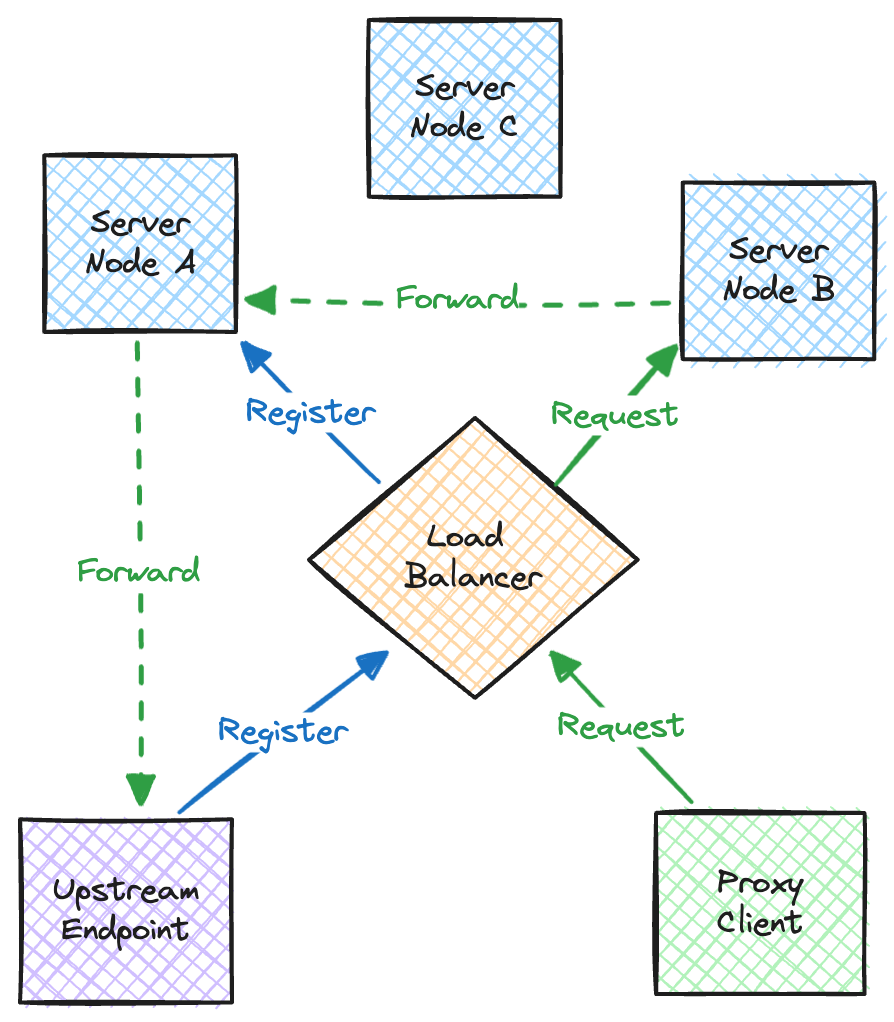
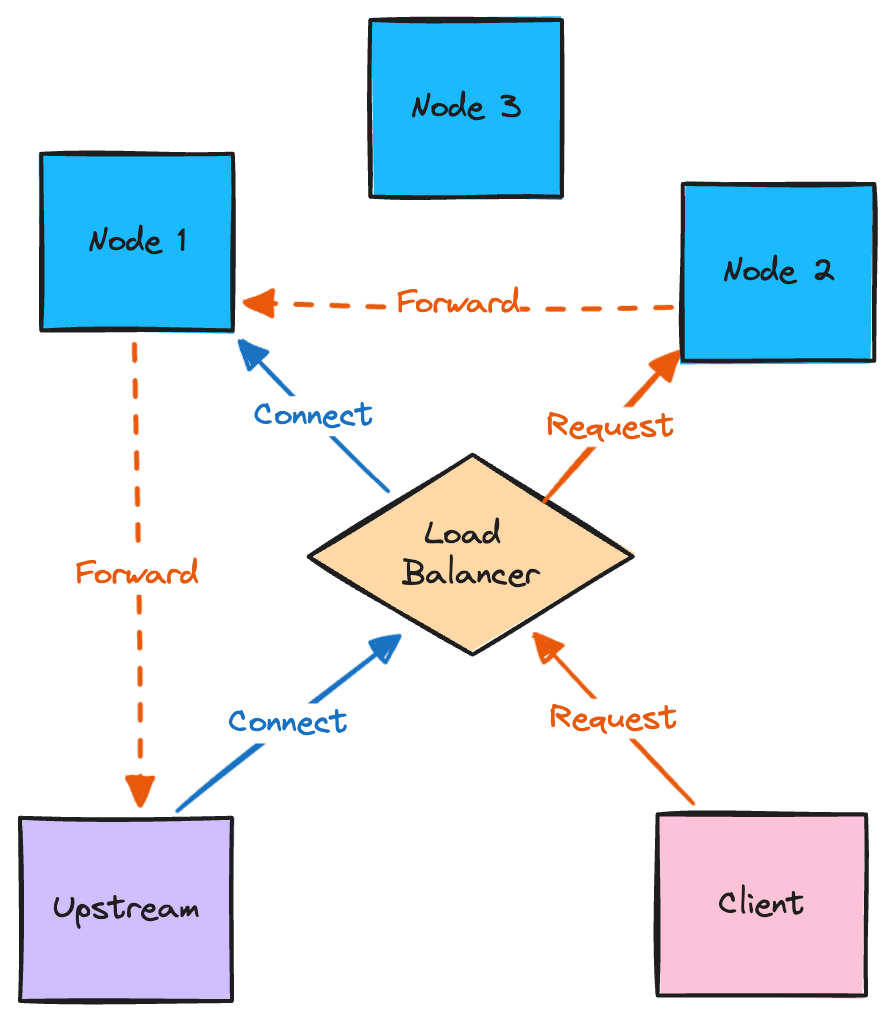
docs: add how piko works

Changed region(s): [[0.0, 0.152, 0.9966, 1.0], [0.3926, 0.0, 0.6342, 0.2127], [0.2718, 0.3343, 0.4228, 0.4559]]

diff --git a/docs/how-piko-works.md b/docs/how-piko-works.md
@@ -1,0 +1,77 @@
+# How Piko Works
+
+This document provides an overview of how Piko works.
+
+The Piko server is a HTTP(S) reverse proxy that forwards requests to upstream
+listeners. Unlike a traditional reverse proxy, Piko never opens a connection
+directly to your upstream. Instead upstreams listeners open outbound-only
+connections to the server and listen on a particular endpoint. The server then
+forwards requests to a listening upstream via its outbound connection to the
+server.
+
+This means upstreams can run anywhere without requiring a public route, as long
+as they can open a connection to the Piko server.
+
+You can create an upstream listener using the Piko agent.
+
+## Upstream
+
+Each upstream listener opens an outbound-only connection to the Piko server and
+specifies what endpoint it is listening on. This connection is used to forward
+requests from the server to the upstream.
+
+To make the server easier to host, the upstream listener connection uses
+WebSockets rather than raw TCP, meaning the server can be deployed behind a
+HTTP load balancer.
+
+Piko multiplexes parallel bi-directional streams on this underlying connection
+using [yamux](https://github.com/hashicorp/yamux). Each stream can be treated
+as a separate TCP connection even though there is actually only one underlying
+connection. This means the server can "connect" to the upstream by opening a
+new stream on the existing connection.
+
+When the server receives a request from a downstream client for a particular
+endpoint, it looks up a connected upstream listener for that endpoint, opens a
+new stream, then forwards the request and response. Piko also supports long
+lived connections like WebSockets, where it relays bytes between the downstream
+client and upstream listener over this stream.
+
+If an upstream is disconnected it will automatically reconnect and resume
+listening on the endpoint.
+
+## Cluster
+
+To be fault tolerant and scalable, the Piko server is designed to be hosted as
+a cluster of nodes.
+
+Since the cluster is typically hosted behind a HTTP load balancer, upstream
+listeners and downstream clients may connect to any node in the cluster.
+
+Say you have an upstream connected to node N<sub>1</sub> listening on endpoint
+E. If a downstream client sends a request to node N<sub>2</sub> for that
+endpoint, Piko must manage routing the request to the upstream connected to
+N<sub>1</sub>.
+
+<p align="center">
+  <img src="../assets/images/routing.png" alt="overview" width="30%"/>
+</p>
+
+When a Piko node receives a request for endpoint E, it first looks up whether
+it has a connected upstream listener for that endpoint. If it does, the node
+opens a new stream to the upstream listener and forwards the request, as
+described above.
+
+If the node doesn’t have a connected upstream listener for the endpoint, it
+looks up whether another node in the cluster has an upstream for the endpoint.
+If found, the request is forwarded to that target node, then that node can
+forward the request to the upstream via its connection to the node.
+
+When there are multiple upstream listeners connected for an endpoint, requests
+are load balanced among those upstreams.
+
+This approach requires each node knows what endpoints each other node has a
+connected upstream listener for. Piko uses an efficient gossip-based
+anti-entropy mechanism to quickly propagate this state. When the set of
+connected upstreams to a node changes (due to upstreams connecting or
+disconnecting), the update will be quickly propagated around the cluster
+(usually in less than a second).

diff --git a/README.md b/README.md
@@ -7,6 +7,7 @@
 - [What Is Piko?](#what-is-piko)
 - [Design Goals](#design-goals)
 - [Getting Started](#getting-started)
+- [How Piko Works](#how-piko-works)
 - [Support](#support)
 - [Docs](#docs)
 - [Contributing](#contributing)
@@ -115,6 +116,10 @@ See [Kubernetes](./docs/manage/kubernetes.md) for details.
 
 See [Getting Started](./docs/getting-started.md).
 
+## How Piko Works
+
+See [How Piko Works](./docs/how-piko-works.md).
+
 ## Support
 
 Use [GitHub Discussions](https://github.com/andydunstall/piko/discussions) to
@@ -122,11 +127,10 @@ ask questions, get help, or suggest ideas.
 
 ## Docs
 
+- [How Piko Works](./docs/how-piko-works.md)
 - Tutorials
   - [Getting Started](./docs/getting-started.md)
   - [Install](./docs/tutorials/install.md)
-- Architecture
-  - [Overview](./docs/architecture/overview.md)
 - Manage
   - [Overview](./docs/manage/overview.md)
   - [Configure](./docs/manage/configure.md)
